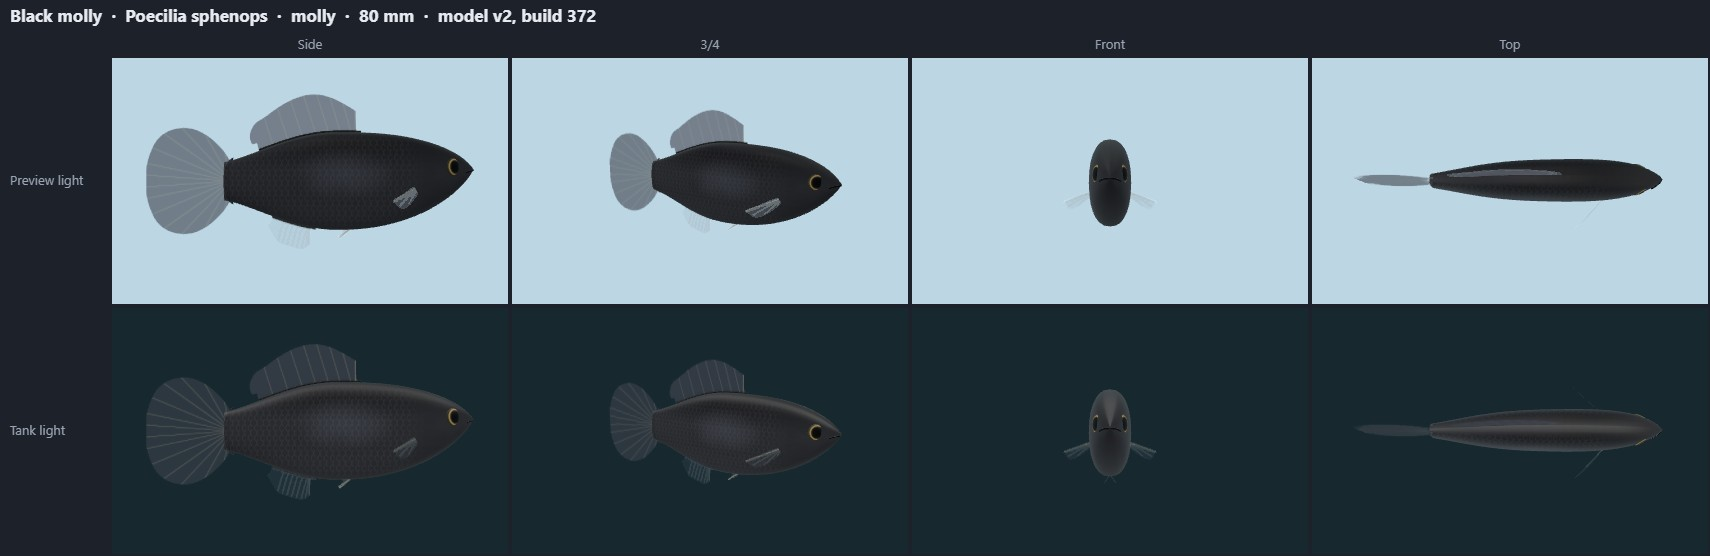
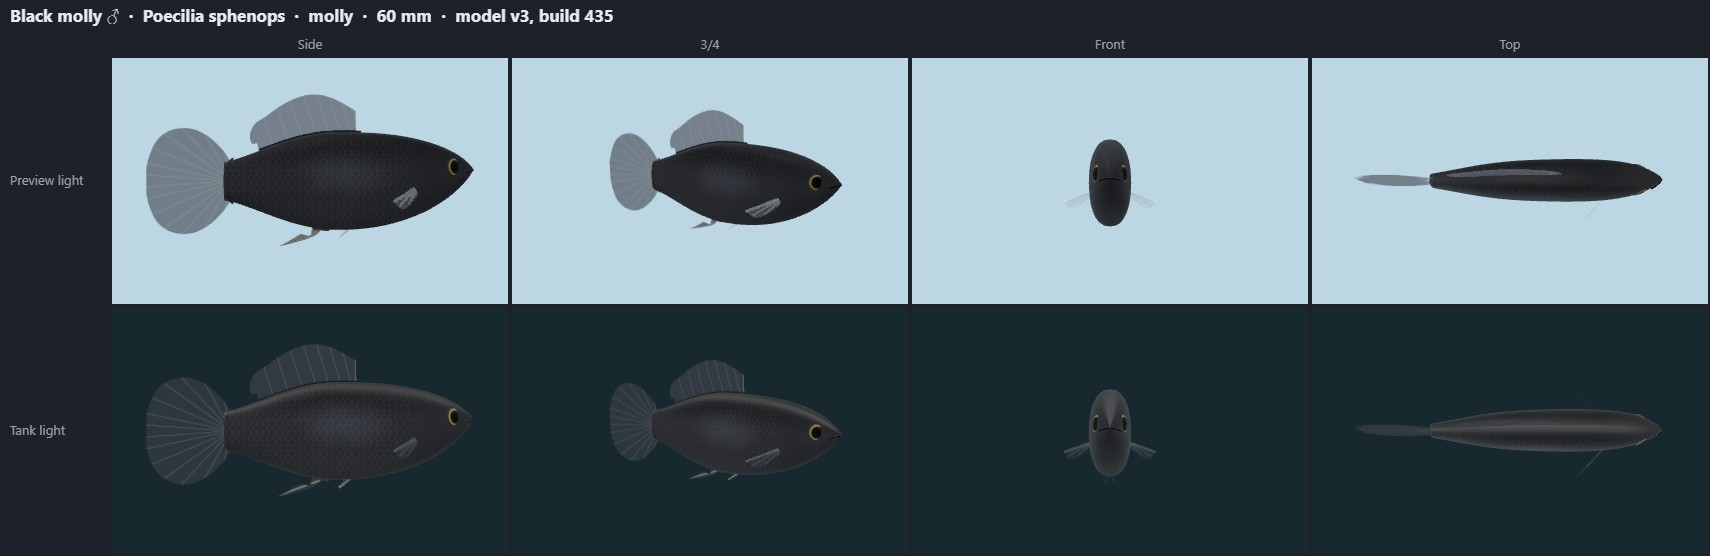
Fish: male platy / molly with a gonopodium (40 / 60 mm); today's looks become platy~f / molly~f (55 / 80 mm) (build 435)

diff --git a/public/model-sheets/index.html b/public/model-sheets/index.html
@@ -10,7 +10,7 @@ figure { margin: 8px 0 14px; padding: 8px; background: var(--panel); border-radi
 img { display: block; max-width: 100%; height: auto }
 </style></head><body>
 <h1>Model sheets</h1>
-<p>Pre-rendered review images of every TankLook animal model (no WebGL needed): 69 models, 58 species, written at build 434.
+<p>Pre-rendered review images of every TankLook animal model (no WebGL needed): 71 models, 58 species, written at build 435.
 Each sheet shows the Side, 3/4, Front, Top views; top row in the plain preview light, bottom row at true size in the default tank's LED light and water.
 Click a sheet for the full-size image (1710 × 556 px). Interactive version: <a href="../review.html">review.html</a>.</p>
 <h2>Freshwater fish</h2>
@@ -29,8 +29,10 @@ Click a sheet for the full-size image (1710 × 556 px). Interactive version: <a 
 <figure id="tigerbarb"><figcaption><b>Tiger barb</b> · <i>Puntigrus tetrazona</i> · tigerbarb · 70 mm · model v2 (build 372, 2026-10-14)</figcaption><a href="tigerbarb.jpg"><img src="tigerbarb.jpg" width="1710" height="556" loading="lazy" alt="Tiger barb (Puntigrus tetrazona), model v2: Side, 3/4, Front, Top views, preview light (top row) and tank light (bottom row)"></a></figure>
 <figure id="guppy"><figcaption><b>Guppy ♂</b> · <i>Poecilia reticulata</i> · guppy · 35 mm · model v2 (build 351, 2026-10-14)</figcaption><a href="guppy.jpg"><img src="guppy.jpg" width="1710" height="556" loading="lazy" alt="Guppy ♂ (Poecilia reticulata), model v2: Side, 3/4, Front, Top views, preview light (top row) and tank light (bottom row)"></a></figure>
 <figure id="guppy-f"><figcaption><b>Guppy ♀</b> · <i>Poecilia reticulata</i> · guppy~f · 50 mm · model v2 (build 351, 2026-10-14)</figcaption><a href="guppy-f.jpg"><img src="guppy-f.jpg" width="1710" height="556" loading="lazy" alt="Guppy ♀ (Poecilia reticulata), model v2: Side, 3/4, Front, Top views, preview light (top row) and tank light (bottom row)"></a></figure>
-<figure id="platy"><figcaption><b>Platy</b> · <i>Xiphophorus maculatus</i> · platy · 55 mm · model v2 (build 372, 2026-10-14)</figcaption><a href="platy.jpg"><img src="platy.jpg" width="1710" height="556" loading="lazy" alt="Platy (Xiphophorus maculatus), model v2: Side, 3/4, Front, Top views, preview light (top row) and tank light (bottom row)"></a></figure>
-<figure id="molly"><figcaption><b>Black molly</b> · <i>Poecilia sphenops</i> · molly · 80 mm · model v2 (build 372, 2026-10-14)</figcaption><a href="molly.jpg"><img src="molly.jpg" width="1710" height="556" loading="lazy" alt="Black molly (Poecilia sphenops), model v2: Side, 3/4, Front, Top views, preview light (top row) and tank light (bottom row)"></a></figure>
+<figure id="platy"><figcaption><b>Platy ♂</b> · <i>Xiphophorus maculatus</i> · platy · 40 mm · model v3 (build 435, 2026-10-15)</figcaption><a href="platy.jpg"><img src="platy.jpg" width="1710" height="556" loading="lazy" alt="Platy ♂ (Xiphophorus maculatus), model v3: Side, 3/4, Front, Top views, preview light (top row) and tank light (bottom row)"></a></figure>
+<figure id="platy-f"><figcaption><b>Platy ♀</b> · <i>Xiphophorus maculatus</i> · platy~f · 55 mm · model v1 (build 435, 2026-10-15)</figcaption><a href="platy-f.jpg"><img src="platy-f.jpg" width="1710" height="556" loading="lazy" alt="Platy ♀ (Xiphophorus maculatus), model v1: Side, 3/4, Front, Top views, preview light (top row) and tank light (bottom row)"></a></figure>
+<figure id="molly"><figcaption><b>Black molly ♂</b> · <i>Poecilia sphenops</i> · molly · 60 mm · model v3 (build 435, 2026-10-15)</figcaption><a href="molly.jpg"><img src="molly.jpg" width="1710" height="556" loading="lazy" alt="Black molly ♂ (Poecilia sphenops), model v3: Side, 3/4, Front, Top views, preview light (top row) and tank light (bottom row)"></a></figure>
+<figure id="molly-f"><figcaption><b>Black molly ♀</b> · <i>Poecilia sphenops</i> · molly~f · 80 mm · model v1 (build 435, 2026-10-15)</figcaption><a href="molly-f.jpg"><img src="molly-f.jpg" width="1710" height="556" loading="lazy" alt="Black molly ♀ (Poecilia sphenops), model v1: Side, 3/4, Front, Top views, preview light (top row) and tank light (bottom row)"></a></figure>
 <figure id="swordtail"><figcaption><b>Swordtail ♂</b> · <i>Xiphophorus hellerii</i> · swordtail · 120 mm · model v2 (build 351, 2026-10-14)</figcaption><a href="swordtail.jpg"><img src="swordtail.jpg" width="1710" height="556" loading="lazy" alt="Swordtail ♂ (Xiphophorus hellerii), model v2: Side, 3/4, Front, Top views, preview light (top row) and tank light (bottom row)"></a></figure>
 <figure id="swordtail-f"><figcaption><b>Swordtail ♀</b> · <i>Xiphophorus hellerii</i> · swordtail~f · 115 mm · model v2 (build 351, 2026-10-14)</figcaption><a href="swordtail-f.jpg"><img src="swordtail-f.jpg" width="1710" height="556" loading="lazy" alt="Swordtail ♀ (Xiphophorus hellerii), model v2: Side, 3/4, Front, Top views, preview light (top row) and tank light (bottom row)"></a></figure>
 <figure id="betta"><figcaption><b>Betta ♂</b> · <i>Betta splendens</i> · betta · 65 mm · model v2 (build 351, 2026-10-14)</figcaption><a href="betta.jpg"><img src="betta.jpg" width="1710" height="556" loading="lazy" alt="Betta ♂ (Betta splendens), model v2: Side, 3/4, Front, Top views, preview light (top row) and tank light (bottom row)"></a></figure>

diff --git a/src/art/fishgen.ts b/src/art/fishgen.ts
@@ -496,11 +496,13 @@ export const PLANS: Record<string, Plan> = {
     marks: [{ k: 'blob', u: 0.55, v: 0, ru: 0.06, rv: 0.05, c: '#2d6fb0', a: 0.8 }, { k: 'blob', u: 0.47, v: 0.01, ru: 0.03, rv: 0.03, c: '#1a1a1a', a: 0.8 }, { k: 'blob', u: 0.68, v: 0.02, ru: 0.06, rv: 0.04, c: '#e0884a', a: 0.7 }],
     finMarks: [{ k: 'band', u0: 0, u1: 0.2, v0: -0.3, v1: 0.3, c: '#3a6ab8', a: 0.55, f: 0.08 }, { k: 'spots', n: 26, u0: 0.04, u1: 0.38, v0: -0.24, v1: 0.24, r: 0.014, c: '#2a2a40', a: 0.6 }],
     eye: { r: 0.026, iris: ['#c9b890', '#4a3e2c'] } },
+  // male: the anal fin is a gonopodium (platy_f keeps the anal fin; same body)
   platy: { gape: 0.03, gapeDrop: 0.008, thick: 0.5, depth: 0.36, pedU: 0.21, ped: 0.06, peak: 0.45, snout: 0.6, mouth: -0.03, shade: ['#b0482a', '#de6a3a', '#eb9a6a'], tail: { type: 'round', h: 0.17, tint: '#d87850' }, fin: '#da8a62',
-    dorsal: { at: 0.62, len: 0.2, h: 0.12, rake: 0.35, lead: 0.6, drop: 0.6, trail: 0.04 }, anal: { at: 0.5, len: 0.1, h: 0.07, rake: 0.3, lead: 0.7, tip: 'point', trail: 0.03, drop: 0.4 }, pelvic: { u: 0.62, len: 0.06 },
+    dorsal: { at: 0.62, len: 0.2, h: 0.12, rake: 0.35, lead: 0.6, drop: 0.6, trail: 0.04 }, gono: { at: 0.52, len: 0.12 }, anal: { at: 0.5, len: 0.1, h: 0.07, rake: 0.3, lead: 0.7, tip: 'point', trail: 0.03, drop: 0.4 }, pelvic: { u: 0.62, len: 0.06 },
     eye: { r: 0.034, iris: ['#cfb890', '#4a3e2c'] } },
+  // male: the anal fin is a gonopodium (molly_f keeps the anal fin; same body)
   molly: { gape: 0.032, gapeDrop: 0.008, thick: 0.5, depth: 0.31, pedU: 0.24, ped: 0.065, peak: 0.45, snout: 0.55, mouth: -0.035, shade: ['#141416', '#232427', '#33353a'], tail: { type: 'round', h: 0.18, tint: '#2a2b30', a: 0.75 }, fin: '#2d2e33',
-    dorsal: { at: 0.64, len: 0.28, h: 0.12, rake: 0.55, lead: 0.5, drop: 0.7, trail: 0.05, a: 0.75 }, anal: { at: 0.5, len: 0.1, h: 0.07, rake: 0.3, lead: 0.7, tip: 'point', trail: 0.03, drop: 0.4 }, pelvic: { u: 0.62, len: 0.05 },
+    dorsal: { at: 0.64, len: 0.28, h: 0.12, rake: 0.55, lead: 0.5, drop: 0.7, trail: 0.05, a: 0.75 }, gono: { at: 0.53, len: 0.13 }, anal: { at: 0.5, len: 0.1, h: 0.07, rake: 0.3, lead: 0.7, tip: 'point', trail: 0.03, drop: 0.4 }, pelvic: { u: 0.62, len: 0.05 },
     marks: [{ k: 'blob', u: 0.6, v: -0.02, ru: 0.15, rv: 0.08, c: '#6a7080', a: 0.18 }], eye: { r: 0.03, iris: ['#9a8a6a', '#2a2418'] } },
   // male: long slim body, gonopodium, upturned mouth, the sword the lower caudal rays drawn out
   swordtail: { gape: 0.03, gapeDrop: 0.008, thick: 0.45, depth: 0.16, pedU: 0.45, ped: 0.035, peak: 0.45, snout: 0.4, mouth: -0.025, shade: ['#a63a2a', '#d4553a', '#e4886a'], tail: { type: 'sword', h: 0.11, sword: 0.3, tint: '#d26a48' }, fin: '#d07a58',
@@ -751,6 +753,8 @@ Object.assign(PLANS, {
     dorsal: { u0: 0.38, u1: 0.5, h: 0.07, shape: 'round', a: 0.6 }, anal: { u0: 0.3, u1: 0.46, h: 0.06, shape: 'round', a: 0.6 }, pelvic: { u: 0.58, len: 0.06, tint: '#d8a07a' },
     marks: [{ k: 'blob', u: 0.62, v: 0.09, ru: 0.22, rv: 0.04, c: '#d8a070', a: 0.4 }, { k: 'spots', n: 40, u0: 0.24, u1: 0.84, v0: -0.08, v1: 0.05, r: 0.009, c: '#e4dcbc', a: 0.75 }],
     finMarks: [{ k: 'bars', us: [0.055, 0.135], w: 0.02, c: '#2a2a2a', a: 0.45 }] }),
+  platy_f: her('platy', { gono: undefined }),
+  molly_f: her('molly', { gono: undefined }),
   // rounder, no belly stripe or eye wrinkles, rounder spots, clear fins
   peapuffer_f: her('peapuffer', { thick: 0.8, depth: 0.44, tail: { type: 'round', h: 0.12, tint: '#d4d0b8', a: 0.5 }, fin: '#d4d0b8',
     dorsal: { u0: 0.22, u1: 0.3, h: 0.08, shape: 'round', a: 0.5 }, anal: { u0: 0.22, u1: 0.3, h: 0.07, shape: 'round', a: 0.5 },

diff --git a/src/render/fish3d.ts b/src/render/fish3d.ts
@@ -15,7 +15,7 @@ import { isShrimp3D, shrimpBody } from './shrimp3d';
 /** Species drawn in 3D (test set) and switches for before/after pictures. `fade` = the session-10 fixes (turned-away paint fades, card body cut out, body-shape fields, barbels); off = session 9, for pictures. `wrap` = the turned-away paint is smeared lengthwise (bars and spots don't close into hoops over the back and throat); off = session 11's round blur. */
 export const fish3d = { on: true, fade: true, wrap: true, species: new Set(['cardinal', 'discus', 'bronzecory', 'tigerbarb', 'bristlenose', 'kuhli', 'angel', 'danio', 'guppy', 'dwarfgourami', 'gbr', 'harlequin', 'oto', 'clownloach', 'goldfish', 'ember', 'rummynose', 'chili', 'cherrybarb', 'platy', 'molly', 'swordtail', 'betta', 'honeygourami', 'bolivianram', 'kribensis', 'oscar', 'pandacory', 'sae', 'tetra', 'gourami', 'ocellaris', 'royalgramma', 'yellowtang', 'firefish', 'banggai', 'sixline', 'chromis', 'coralbeauty', 'watchman', 'cherryshrimp', 'amano', 'cleanershrimp', 'nerite', 'mystery', 'ramshorn', 'trumpet', 'turbo', 'hermit', 'dartfrog', 'treefrog', 'firetoad', 'adf', 'firenewt', 'axolotl',
   // females of the dimorphic species (species.json `female`)
-  'betta_f', 'guppy_f', 'swordtail_f', 'dwarfgourami_f', 'honeygourami_f', 'cherrybarb_f', 'kribensis_f', 'gbr_f', 'gourami_f', 'peapuffer', 'peapuffer_f', 'hatchet', 'cpd', 'cpd_f']) };
+  'betta_f', 'guppy_f', 'swordtail_f', 'dwarfgourami_f', 'honeygourami_f', 'cherrybarb_f', 'kribensis_f', 'gbr_f', 'gourami_f', 'peapuffer', 'peapuffer_f', 'hatchet', 'cpd', 'cpd_f', 'platy_f', 'molly_f']) };
 
 export const has3D = (art: string) => fish3d.on && fish3d.species.has(art) && (bodyPlan(art)?.thick != null || art in SNAILS || art in HERP3D);
 
